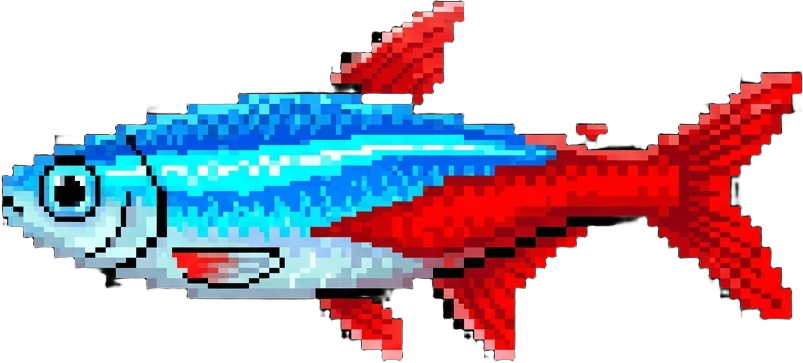
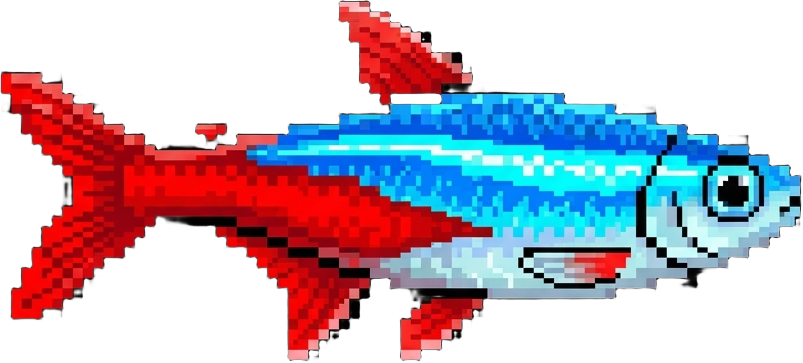
Fix fish swim direction (orient tetras facing forward), enforce side profiles on all livestock sprites including cherry and cleaner shrimps, and retain urchin/snail omni-profiles

diff --git a/src/components/PixelTamagotchiTank.tsx b/src/components/PixelTamagotchiTank.tsx
@@ -95,10 +95,13 @@ function getPixelSpriteForLivestock(item: Livestock, isFreshwater: boolean): str
   if (combined.includes("flame angel") || combined.includes("loriculus")) {
     return "/aquariums/flame_angel_pixel.png";
   }
+  if (combined.includes("cherry shrimp") || combined.includes("neocaridina") || (isFreshwater && combined.includes("shrimp"))) {
+    return "/aquariums/cherry_shrimp_pixel.png";
+  }
   if (combined.includes("shrimp") || combined.includes("cleaner") || combined.includes("amboinensis")) {
     return "/aquariums/cleaner_shrimp_pixel.png";
   }
-  if (combined.includes("snail") || combined.includes("turbo") || combined.includes("trochus") || combined.includes("nerite")) {
+  if (combined.includes("snail") || combined.includes("turbo") || combined.includes("trochus") || combined.includes("nerite") || combined.includes("urchin")) {
     return "/aquariums/turbo_snail_pixel.png";
   }
   if (combined.includes("tetra") || combined.includes("neon") || combined.includes("cardinal") || combined.includes("paracheirodon")) {
@@ -664,6 +667,11 @@ export default function PixelTamagotchiTank({
           } else if (fish.y > bottomBound) {
             fish.y = bottomBound;
             fish.vy = -Math.abs(fish.vy);
+          }
+
+          // Enforce facing matches horizontal travel direction
+          if (Math.abs(fish.vx) > 0.01) {
+            fish.facing = fish.vx >= 0 ? 1 : -1;
           }
         }
 
